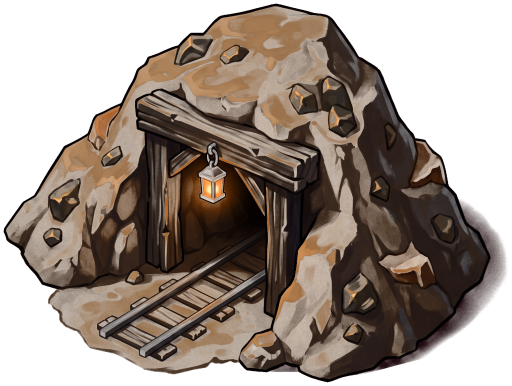
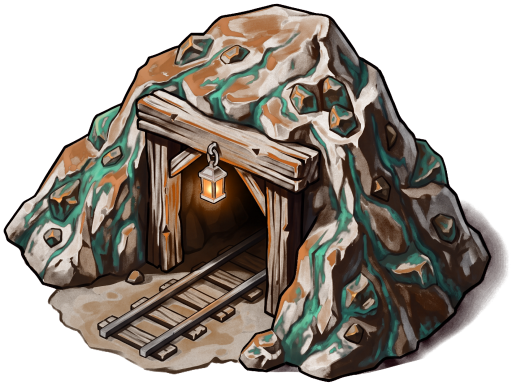
new README + new gifs

diff --git a/README.md b/README.md
@@ -7,9 +7,14 @@
 <p align="center">
   Your AI coding sessions as a tiny isometric mining colony, floating on your desktop.
 </p>
+<p align="left">
+  <img src="docs/media/hero01.gif" width="100" alt="Worker2">
+</p>
 <p align="center">
-  <img src="docs/media/hero01.gif" width="100" alt="Animated view of a crew of dwarfs mining inside a project cave">
-  <img src="docs/media/hero.gif" width="100" alt="Animated view of a crew of dwarfs mining inside a project cave">
+  <img src="docs/media/hero.gif" width="100" alt="Foreman">
+</p>
+<p align="right">
+  <img src="docs/media/hero02.gif" width="100" alt="Worker" style="transform: rotate(90deg);">
 </p>
 
 <div align="center">
